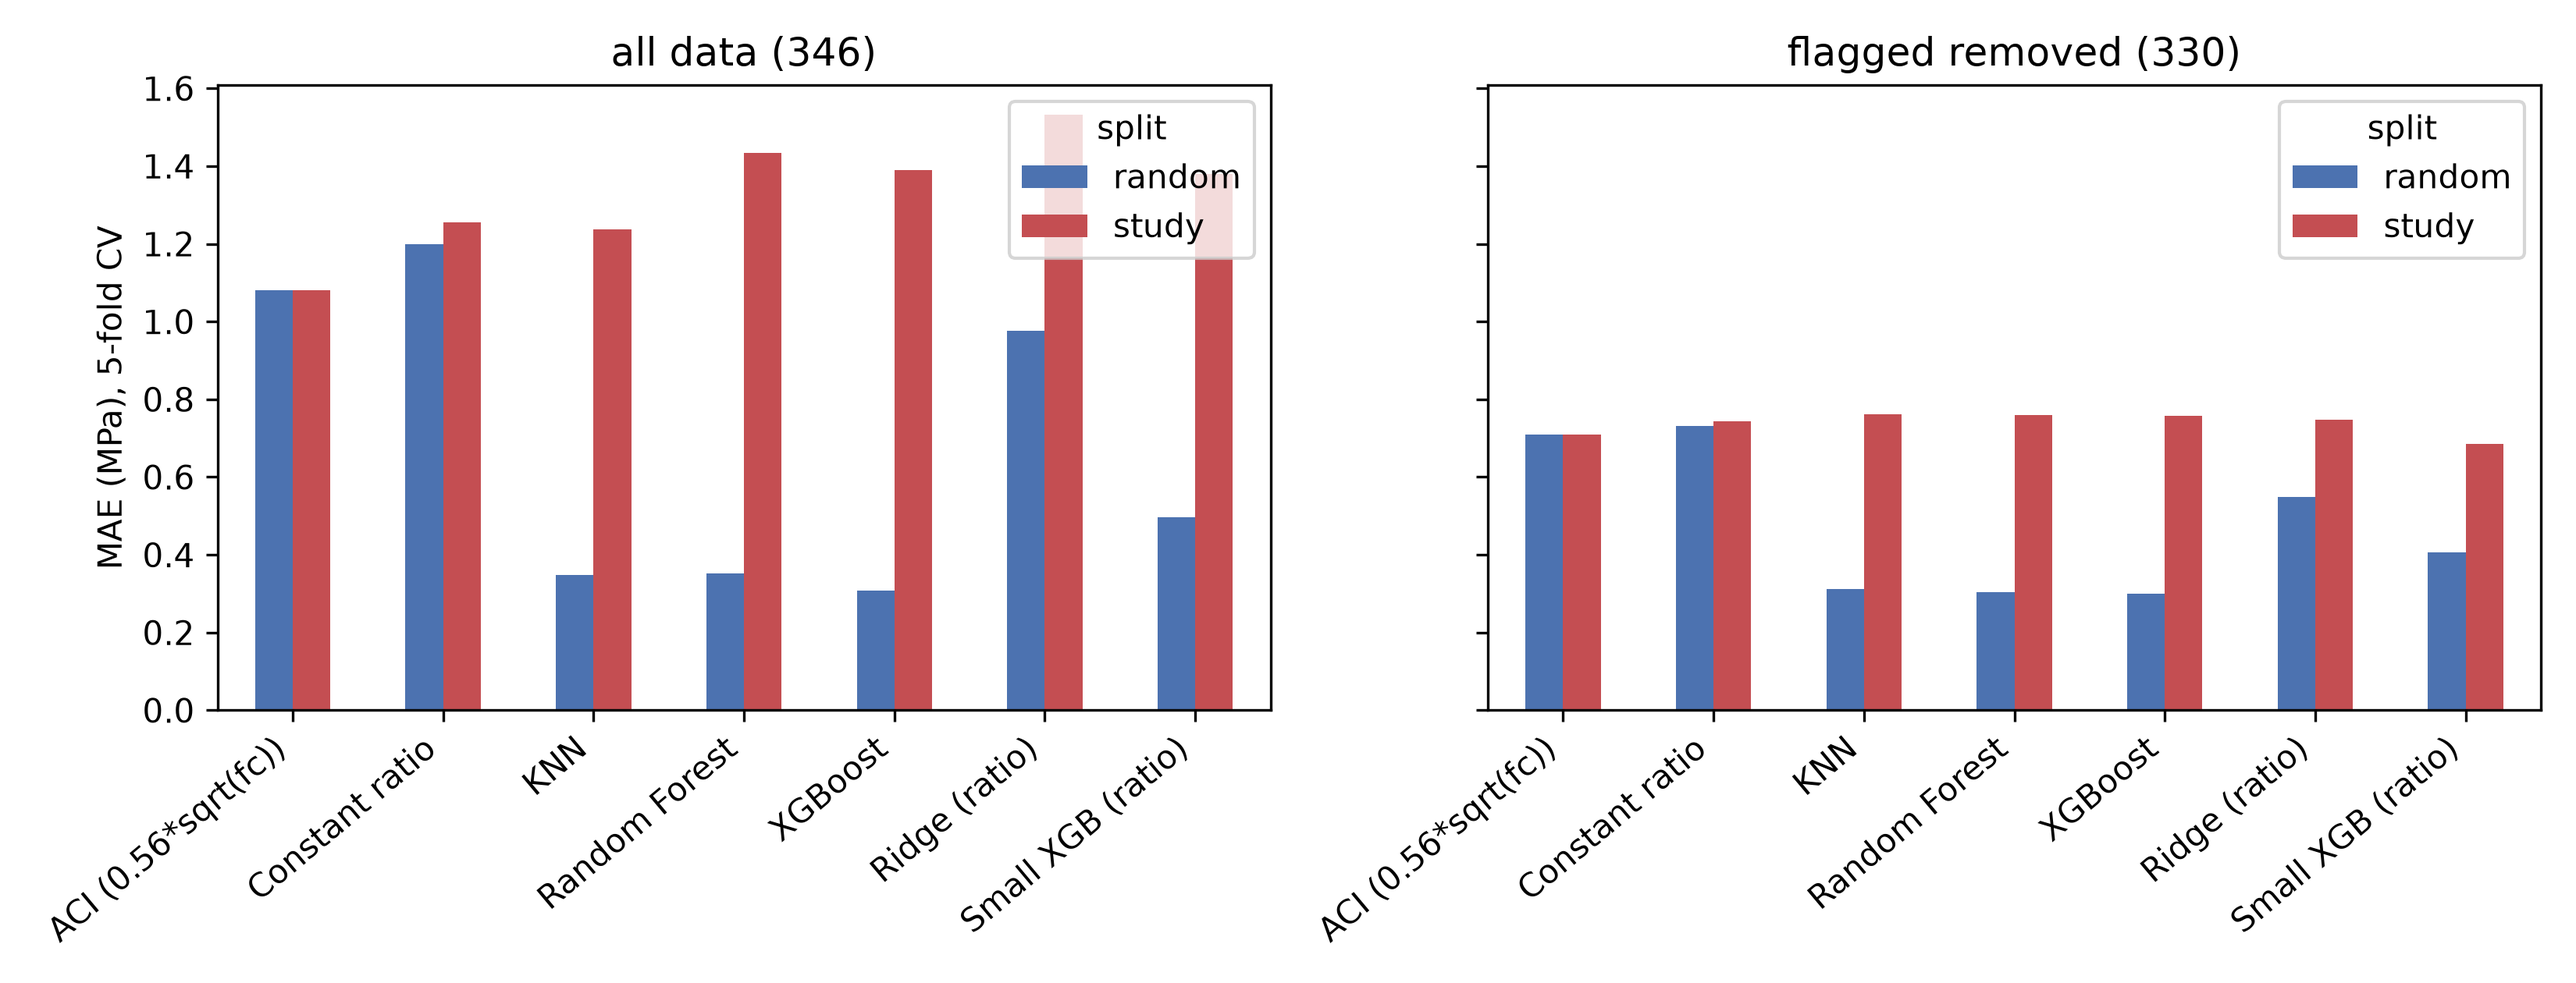
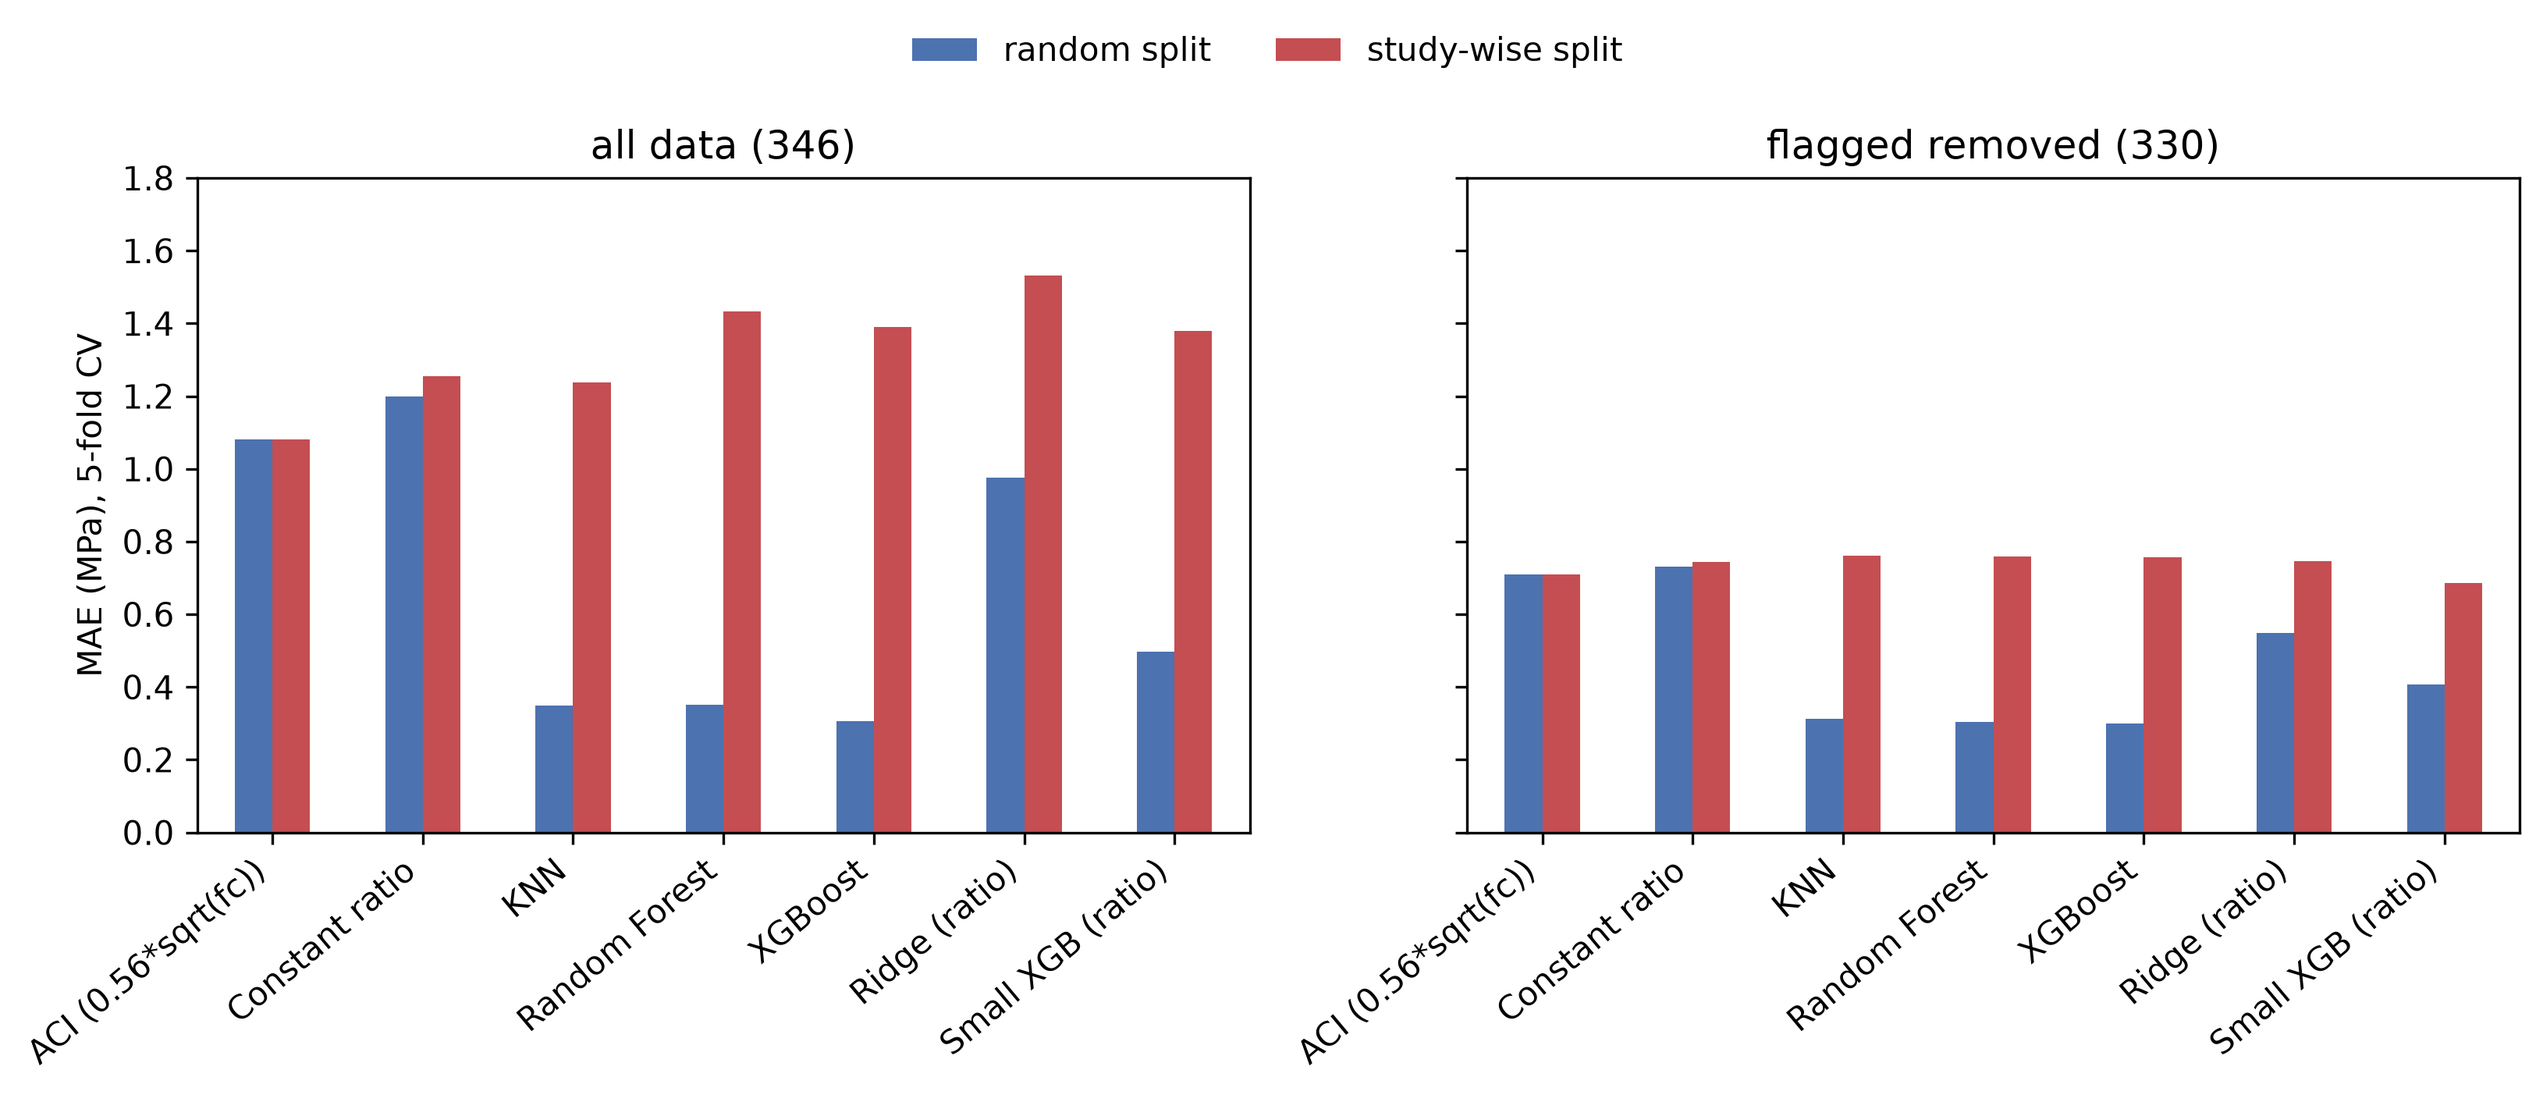
Fix figure legend and labels

diff --git a/src/validate.py b/src/validate.py
@@ -138,20 +138,26 @@ def main(path, outdir):
     print(res.to_string(index=False))
 
     # Figure: MAE under random vs study-wise split (all data)
-    fig, axes = plt.subplots(1, 2, figsize=(11, 4.2), sharey=True)
+    fig, axes = plt.subplots(1, 2, figsize=(11, 4.6), sharey=True)
     for ax, (dataset, sub) in zip(axes, res.groupby("dataset", sort=False)):
         piv = sub.pivot(index="model", columns="split", values="MAE_MPa")
         piv = piv.loc[res["model"].unique()]
-        piv[["random", "study"]].plot.bar(ax=ax, color=["#4C72B0", "#C44E52"])
+        piv = piv[["random", "study"]]
+        piv.columns = ["random split", "study-wise split"]
+        piv.plot.bar(ax=ax, color=["#4C72B0", "#C44E52"], legend=False)
         ax.set_title(dataset)
         ax.set_xlabel("")
+        ax.set_ylim(0, 1.8)
         ax.tick_params(axis="x", rotation=40)
         for lab in ax.get_xticklabels():
             lab.set_ha("right")
     axes[0].set_ylabel("MAE (MPa), 5-fold CV")
-    plt.tight_layout()
+    handles, labels = axes[0].get_legend_handles_labels()
+    fig.legend(handles, labels, loc="upper center", ncol=2, frameon=False,
+               bbox_to_anchor=(0.5, 1.02))
+    plt.tight_layout(rect=(0, 0, 1, 0.94))
     plt.savefig(os.path.join(outdir, "figures", "mae_random_vs_study.png"),
-                dpi=300)
+                dpi=300, bbox_inches="tight")
     plt.close()
 
 
